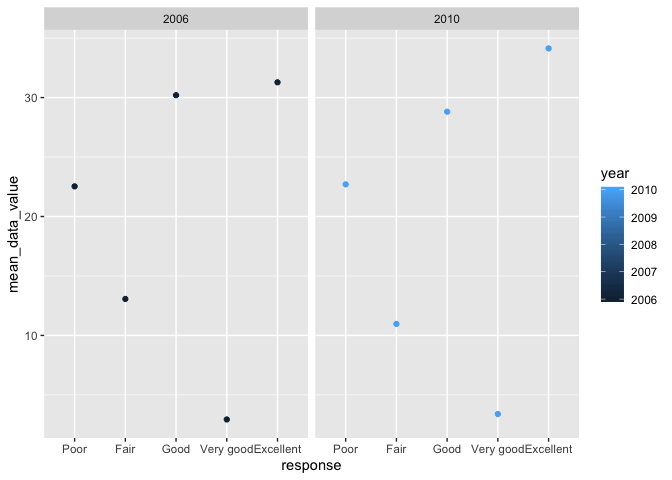
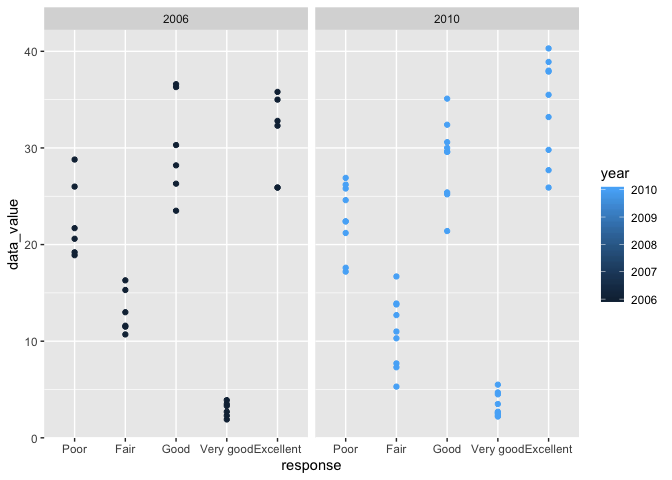
Edited plot 2 in problem 2 to show distribution if data_value instead of mean_data_value

diff --git a/hw3_jo2570.md b/hw3_jo2570.md
@@ -274,12 +274,12 @@ brfss_ny = brfss_clean %>%
   filter(topic %in% c("Overall Health"), 
          year %in% c("2006", "2010"),
          response %in% c("Excellent", "Very good", "Good", "Fair", "Poor"),
-         locationabbr %in% c("NY")) %>% 
-  group_by(locationabbr, year, response) %>%
-  summarise(mean_data_value = mean(data_value))
+         locationabbr %in% c("NY"))
 
 brfss_ny %>% 
-  ggplot(aes(x = response, y = mean_data_value, color = year)) + geom_point() + facet_grid(.~year)
+  ggplot(aes(x = response, y = data_value, color = year)) + geom_point() + facet_grid(.~year)
 ```
 
 ![](hw3_jo2570_files/figure-gfm/unnamed-chunk-14-1.png)<!-- -->
+
+Problem 3
